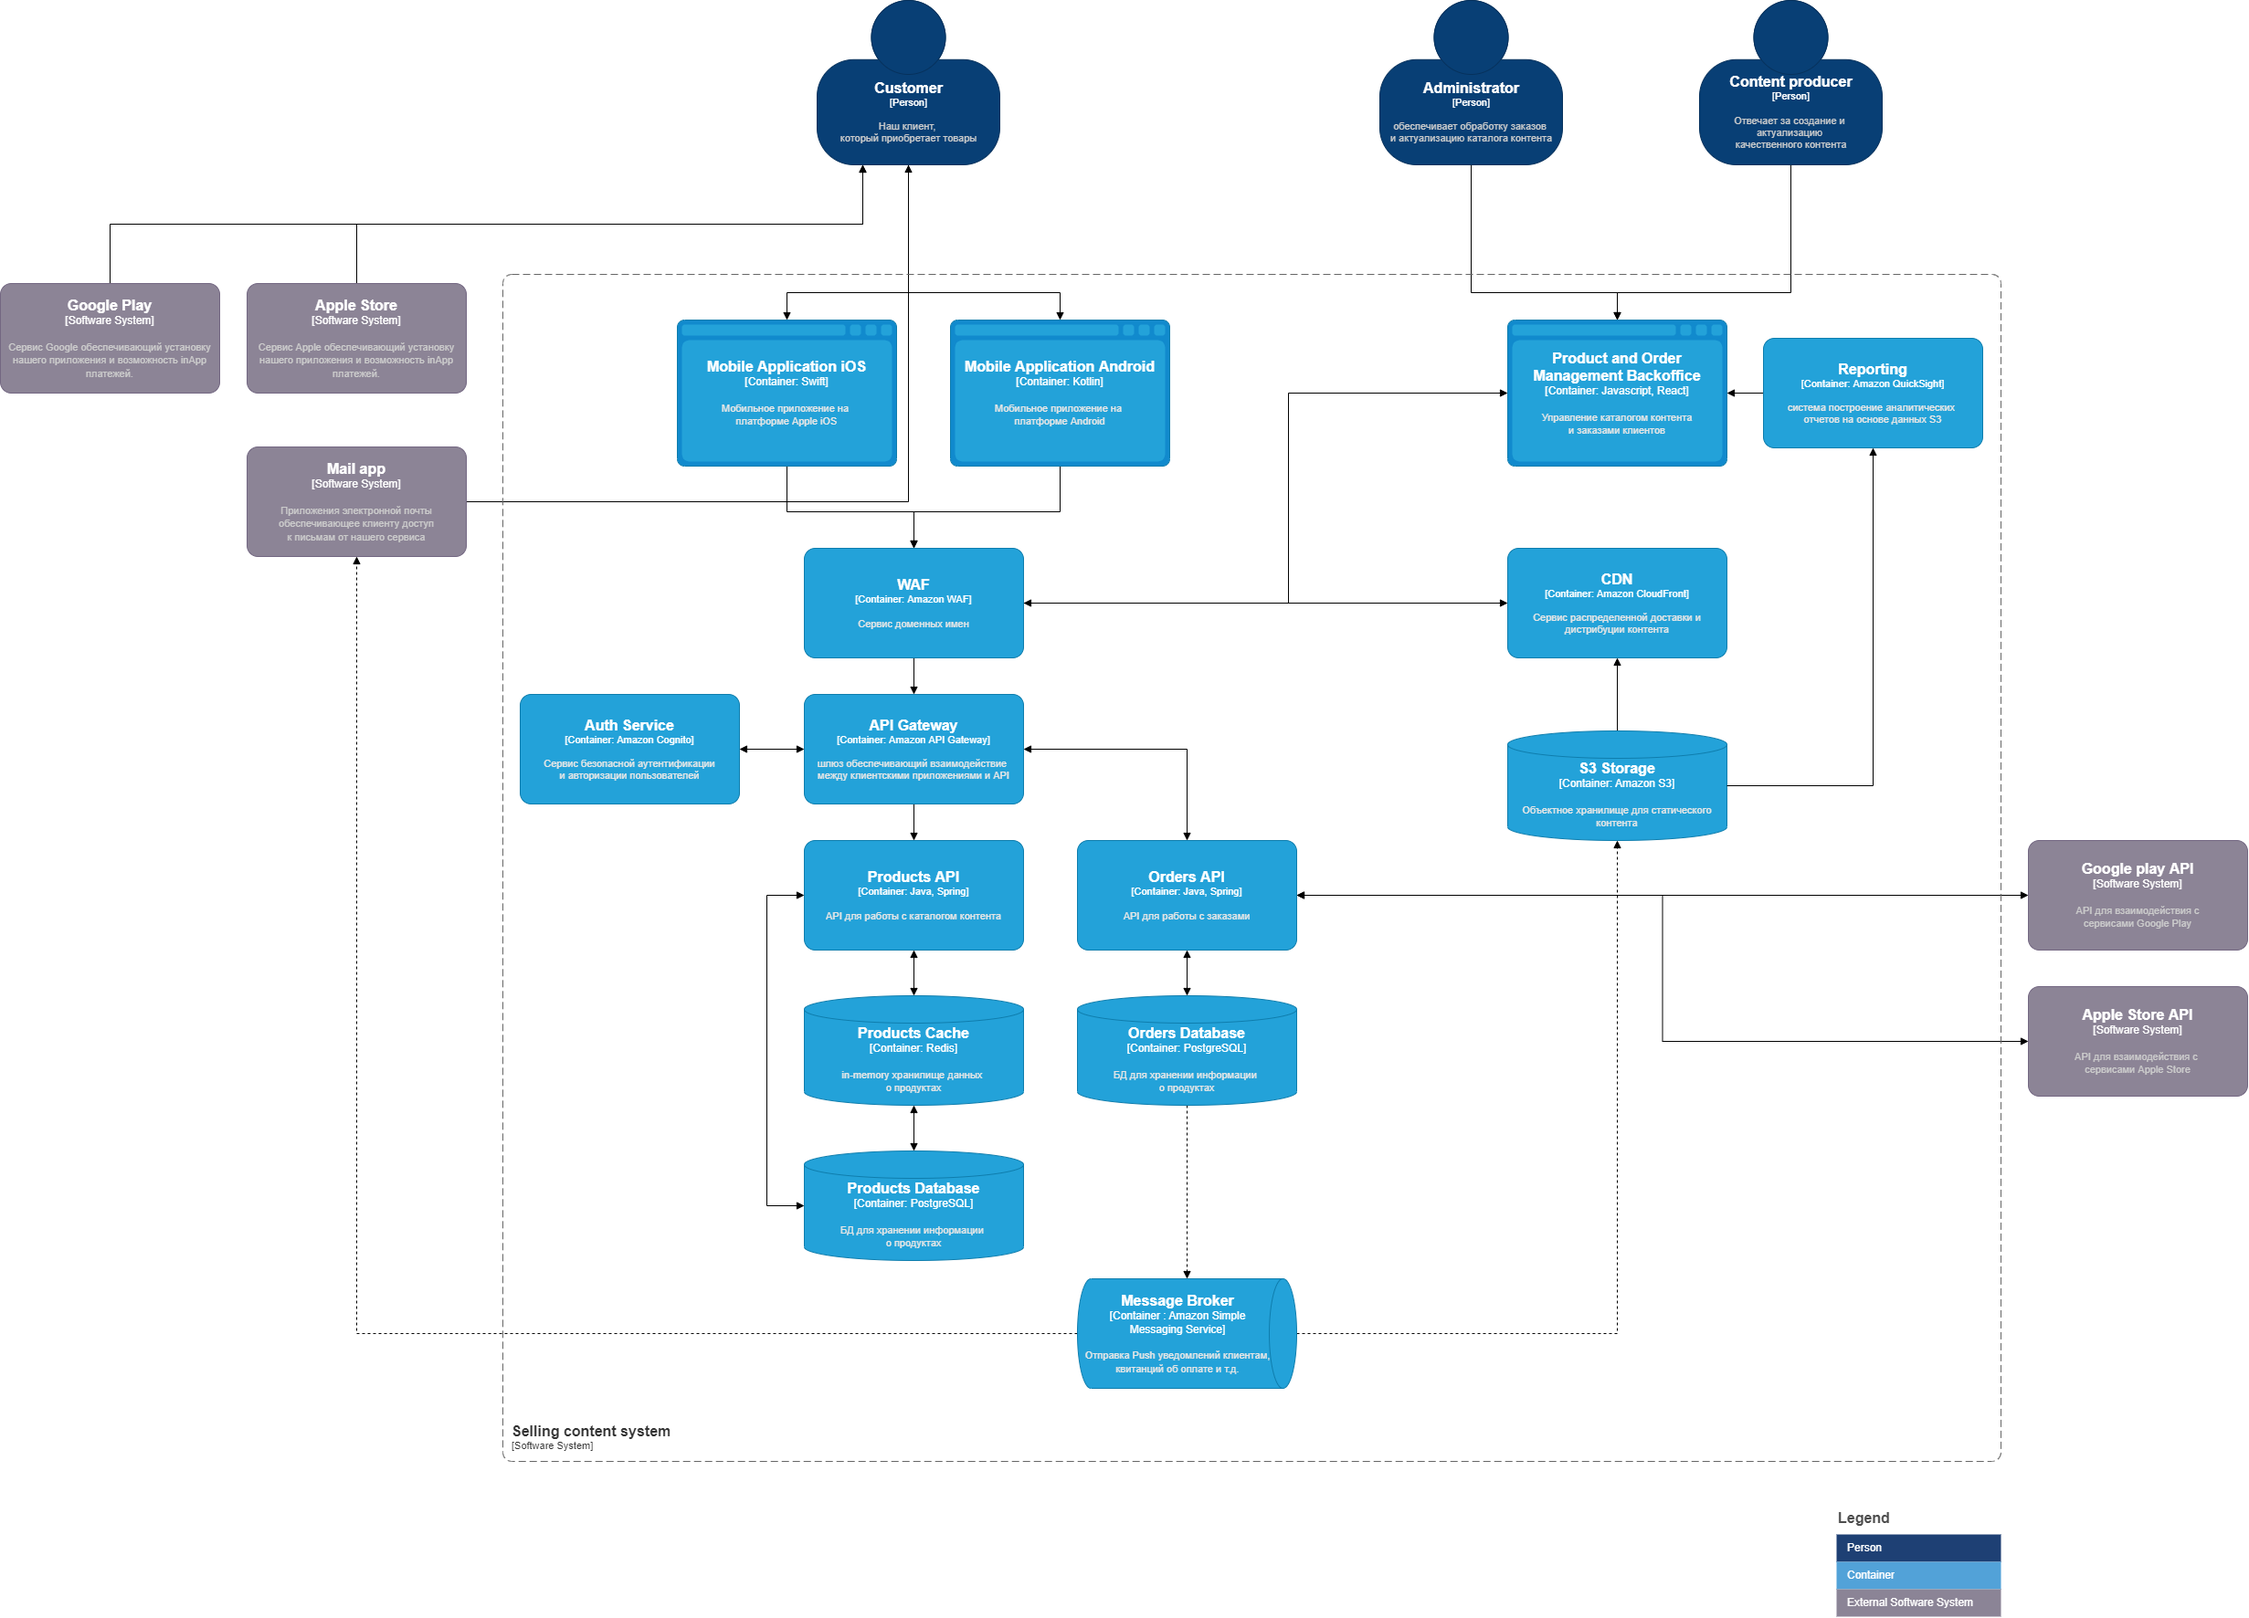
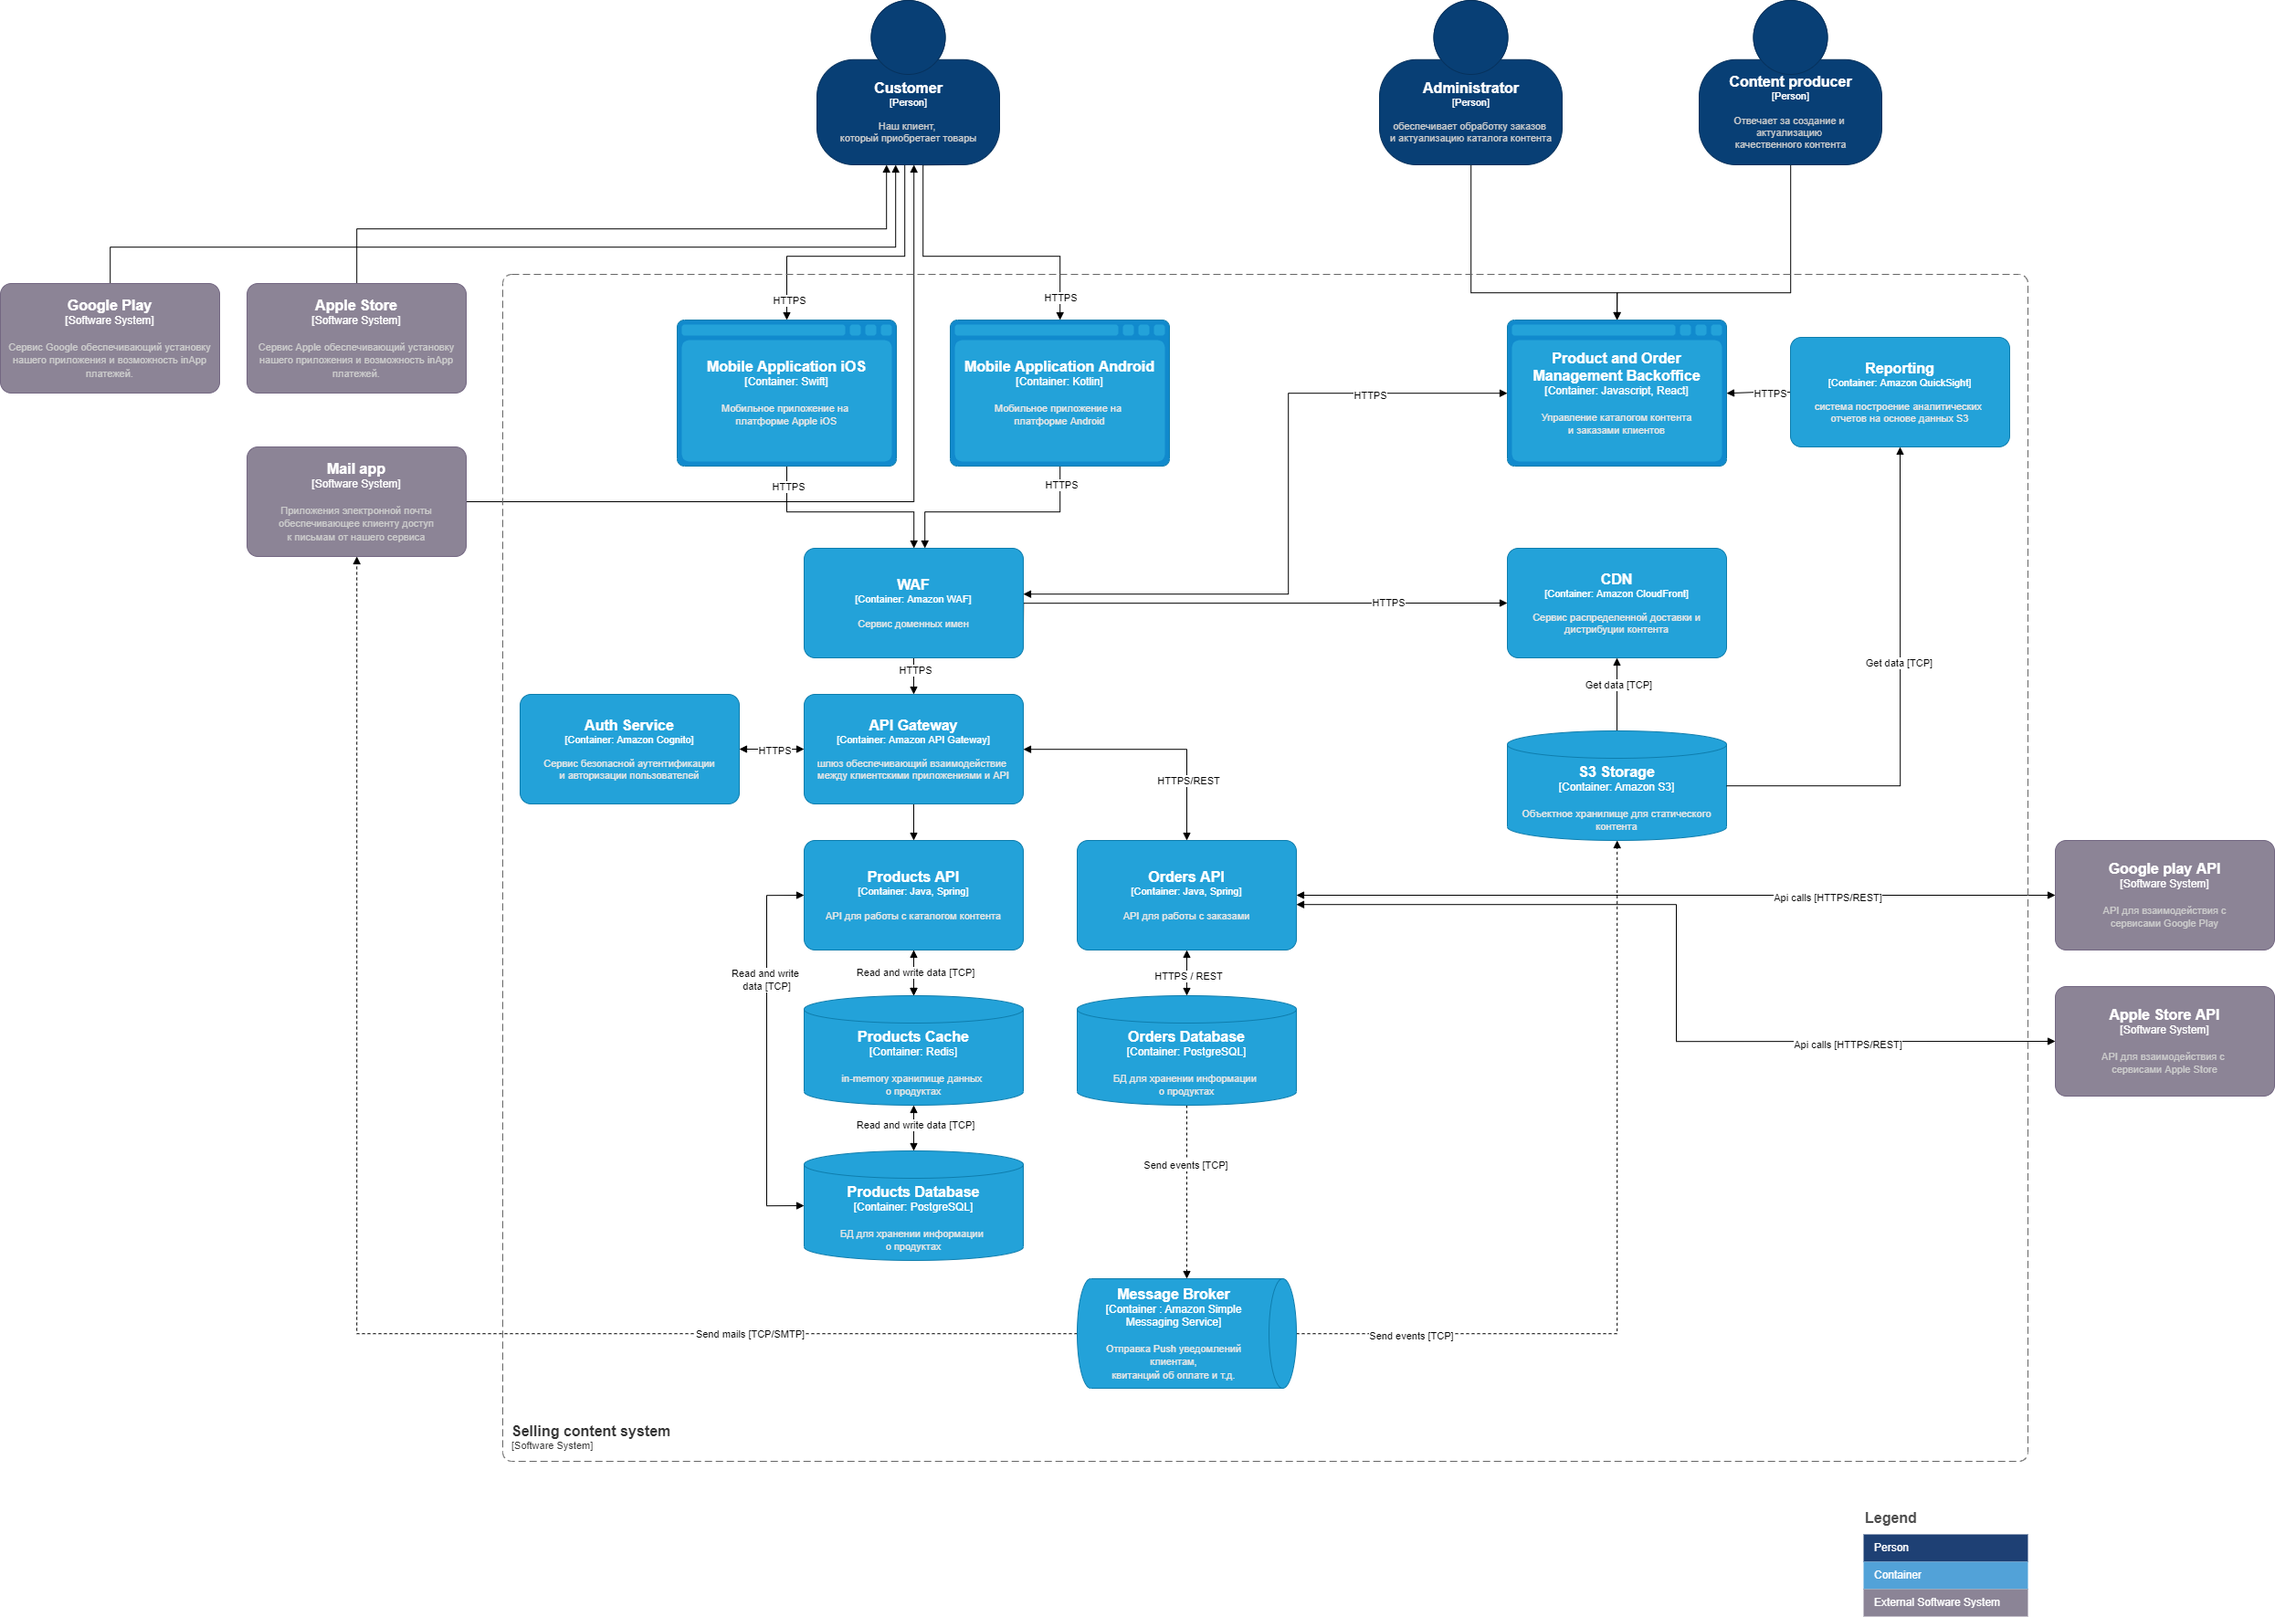
added deployment

diff --git a/README.md b/README.md
@@ -15,7 +15,6 @@
       - [Описание элементов диаграммы контейнеров](#описание-элементов-диаграммы-контейнеров)
     - [Ключевые атрибуты качества](#ключевые-атрибуты-качества)
     - [Диаграмма развертывания](#диаграмма-развертывания)
-    - [Риски](#риски)
     - [Безопасность](#безопасность)
       - [Аутентификация и авторизация](#аутентификация-и-авторизация)
       - [Криптография](#криптография)
@@ -23,14 +22,6 @@
       - [Приватные подсети](#приватные-подсети)
       - [Технический аудит](#технический-аудит)
     - [Компоненты архитектуры в приземлении на AWS и OpenSource](#компоненты-архитектуры-в-приземлении-на-aws-и-opensource)
-    - [Architecture Decision Records](#architecture-decision-records)
-      - [ADR-1: Выбор архитектурного стиля решения](#adr-1-выбор-архитектурного-стиля-решения)
-      - [ADR-2: Выбор СУБД для управления контентом](#adr-2-выбор-субд-для-управления-контентом)
-      - [ADR-3: Выбор СУБД для проведения заказов](#adr-3-выбор-субд-для-проведения-заказов)
-      - [ADR-4: Хостинг решения](#adr-4-хостинг-решения)
-      - [ADR-5: Уведомления](#adr-5-уведомления)
-      - [ADR-6: Observability](#adr-6-observability)
-    - [Глоссарий](#глоссарий)
 
 ## Исходные данные
 
@@ -183,7 +174,7 @@
 - **QA-8**: Modifiability
   - Приложения должны быть написаны с использованием слабо-связанных программных компонентов для возможности быстрого добавления нового функционала и изменения существующего.
 - **QA-9**: Availability
-  - Приложения должны иметь высокий уровень доступности. Для нас это означает высокое качество кода мобильных приложений и высокий уровень доступности сервисов Orders и Products
+  - Приложения должны иметь высокий уровень доступности. Для нас это означает высокое качество кода мобильных приложений и высокий уровень доступности сервисов Order Service и Product Service
 
 **Backoffice**
 
@@ -195,8 +186,6 @@
 Ниже представлена диаграмма развертывания для публикации решения в облаке. Данная диаграмма показывает как логические элементы решения (см. Контейнерная диаграмма) приземляются на сервисы PaaS и SaaS вендора облачной инфраструктуры.
 
 ![Deployment diagram!](images/deployment.png 'Deployment diagram')
-
-### Риски
 
 ### Безопасность
 
@@ -223,21 +212,5 @@
 Необходимо регулярно проводить внешний аудит системы для того, чтобы иметь независимую оценку о защищенности системы и хранимых данных.
 
 ### Компоненты архитектуры в приземлении на AWS и OpenSource
-
-### Architecture Decision Records
-
-#### ADR-1: Выбор архитектурного стиля решения
-
-#### ADR-2: Выбор СУБД для управления контентом
-
-#### ADR-3: Выбор СУБД для проведения заказов
-
-#### ADR-4: Хостинг решения
-
-#### ADR-5: Уведомления
-
-#### ADR-6: Observability
-
-### Глоссарий
 
 -
